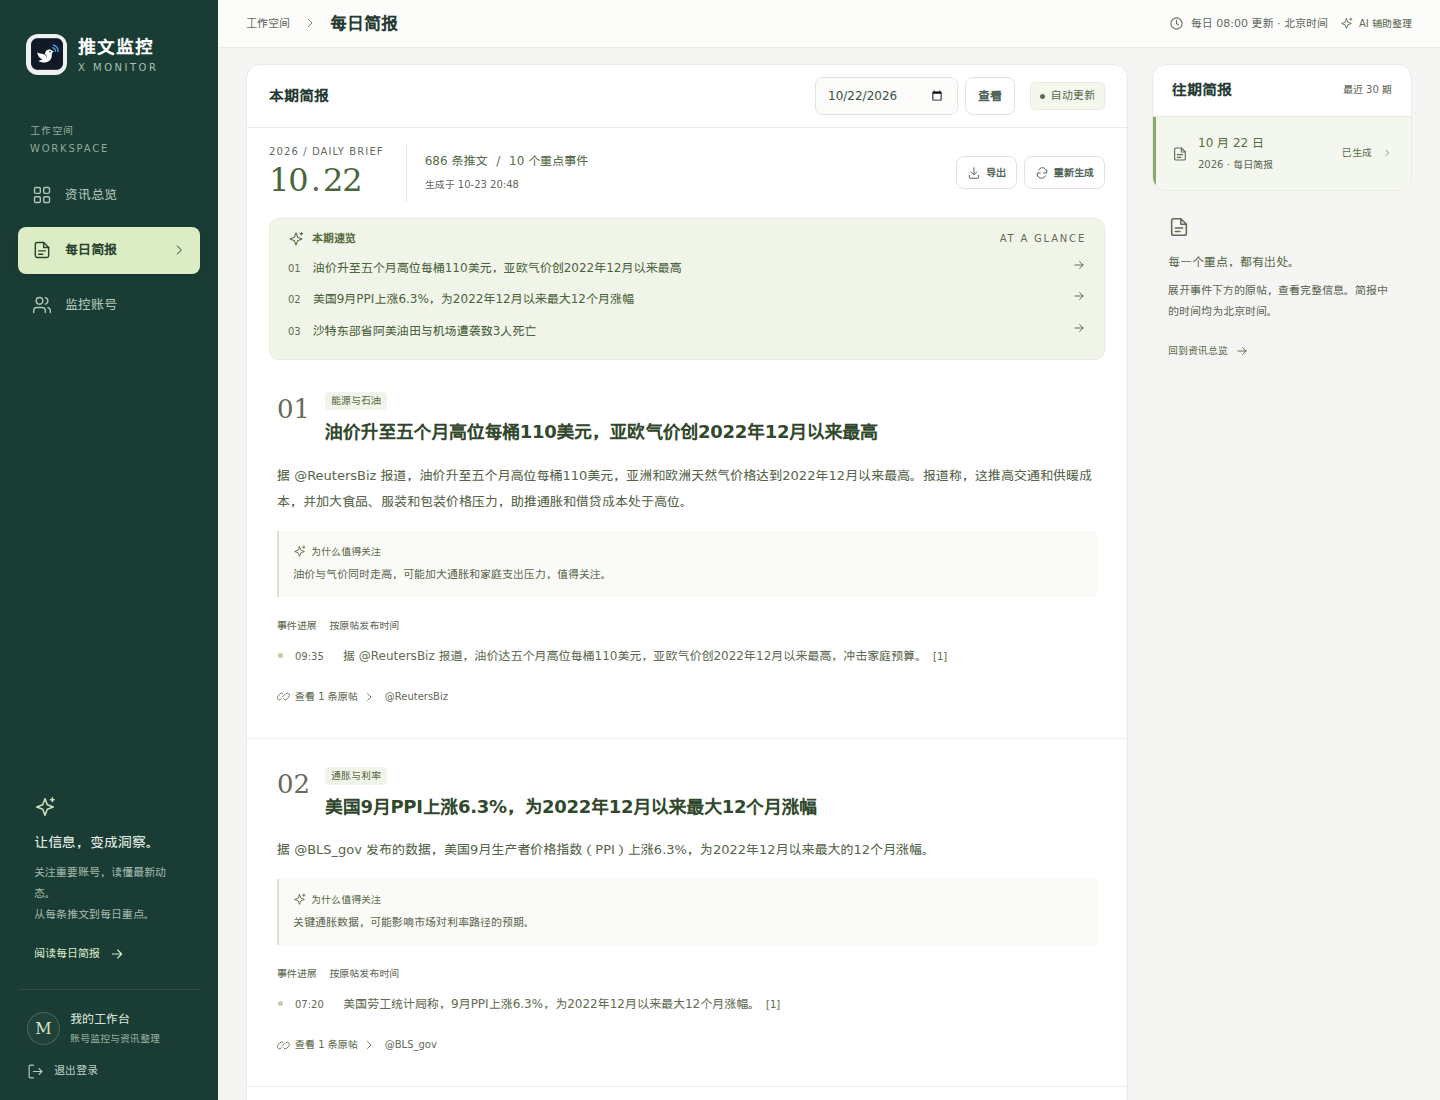
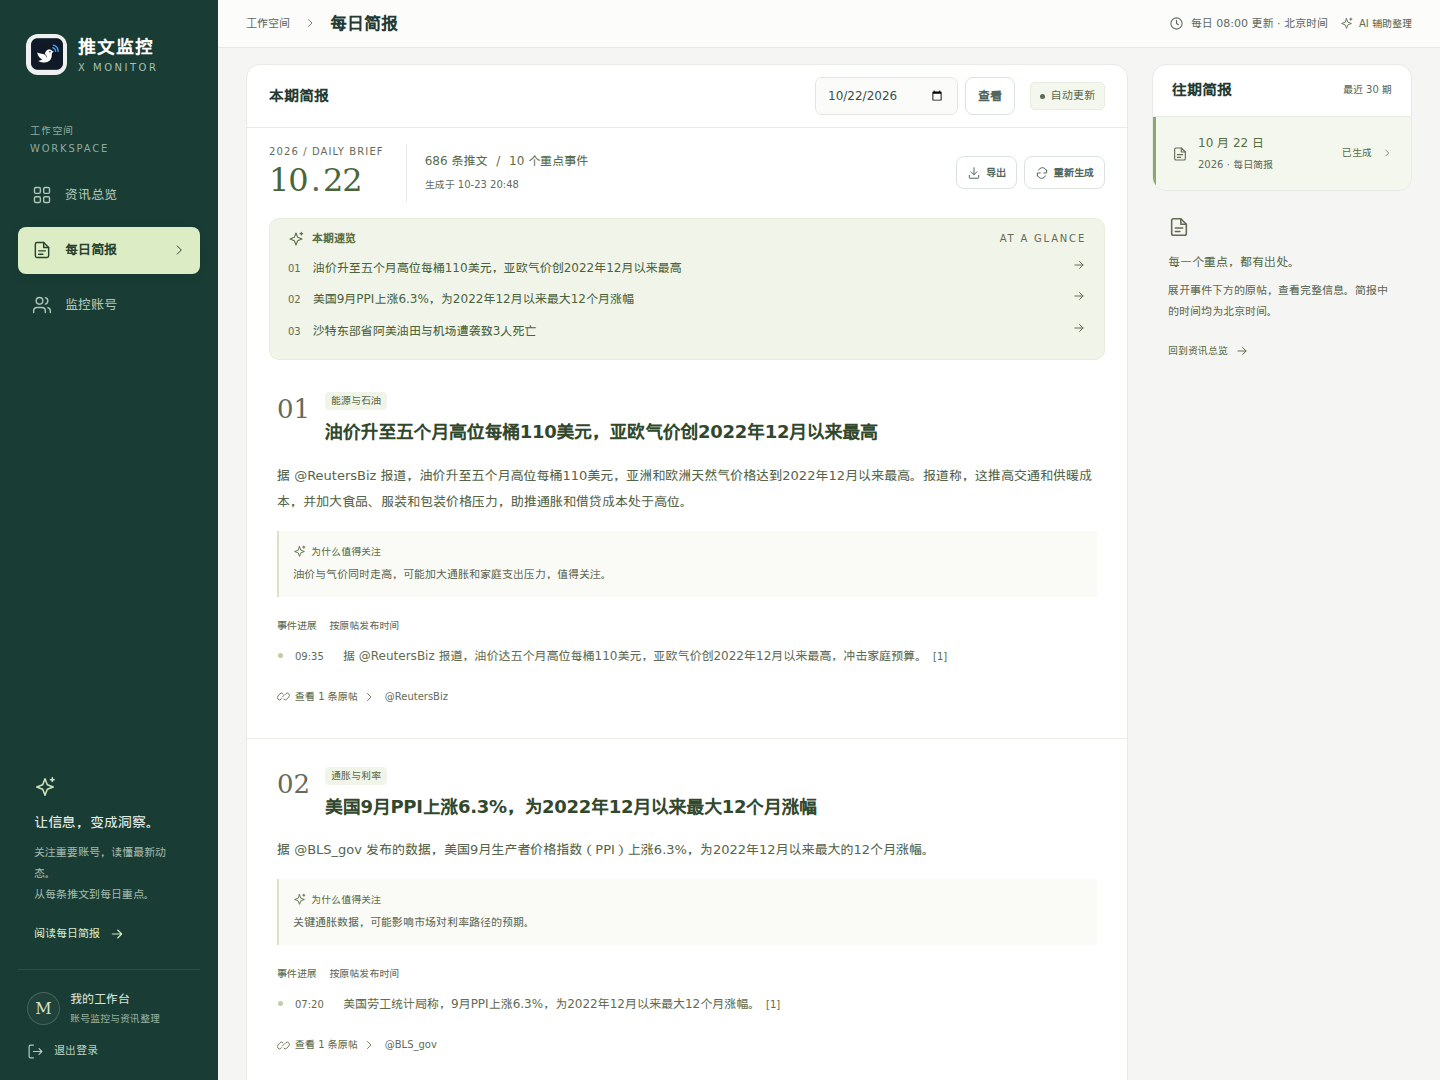
Render both page previews at a 4:3 aspect ratio

diff --git a/scripts/render_screenshots.py b/scripts/render_screenshots.py
@@ -85,8 +85,8 @@ def render(origin, password, day, output, executable):
     from playwright.sync_api import sync_playwright
 
     routes = [
-        ("dashboard-desktop.png", "/", 1440, 1000, False),
-        ("daily-desktop.png", f"/reports?date={day}", 1440, 1100, True),
+        ("dashboard-desktop.png", "/", 1440, 1080, False),
+        ("daily-desktop.png", f"/reports?date={day}", 1440, 1080, True),
     ]
     manifest = {
         "captured_at": datetime.now(ZoneInfo("Asia/Shanghai")).isoformat(timespec="seconds"),
@@ -104,7 +104,7 @@ def render(origin, password, day, output, executable):
         try:
             manifest["browser"] = "Chromium " + browser.version
             context = browser.new_context(
-                viewport={"width": 1440, "height": 1000}, device_scale_factor=1,
+                viewport={"width": 1440, "height": 1080}, device_scale_factor=1,
                 locale="zh-CN", timezone_id="Asia/Shanghai", color_scheme="light",
             )
             page = context.new_page()

diff --git a/docs/screenshots.md b/docs/screenshots.md
@@ -1,11 +1,11 @@
 # 更新页面截图
 
-页面预览展示资讯总览和每日简报。
+页面预览展示资讯总览和每日简报，统一采用 4:3 布局。
 
 | 页面 | 路由 | 视口 | 图片 |
 | --- | --- | --- | --- |
-| 资讯总览 | `/` | 1440 × 1000 | [资讯总览](dashboard-desktop.png) |
-| 每日简报 | `/reports?date=2026-10-22` | 1440 × 1100 | [每日简报](daily-desktop.png) |
+| 资讯总览 | `/` | 1440 × 1080 | [资讯总览](dashboard-desktop.png) |
+| 每日简报 | `/reports?date=2026-10-22` | 1440 × 1080 | [每日简报](daily-desktop.png) |
 
 ## 生成截图
 
